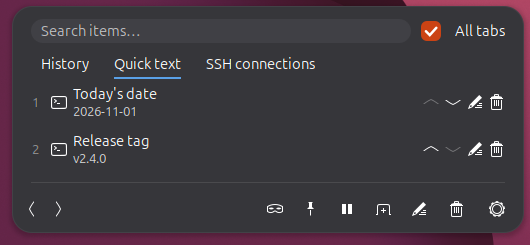
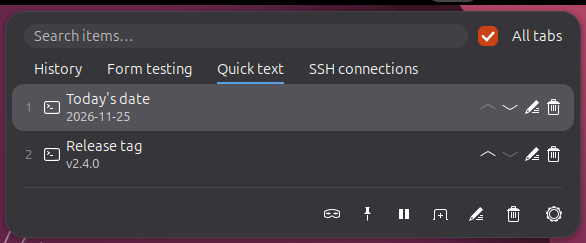
Simplify user README and refresh screenshots

diff --git a/README.md b/README.md
@@ -1,155 +1,101 @@
 # Paste Board for GNOME
 
 A plain-text clipboard and paste-set manager for GNOME Shell on Wayland.
-Organize reusable text in tabs, search across them, and fill forms with repeated
-pastes followed by Tab or Enter. Commands can supply text or entire tabs of
-paste candidates.
+Organize reusable text in tabs, search across them, and fill forms with
+repeated pastes. Commands can supply individual items or entire tabs.
 
-![Paste Board with its clipboard icon, paste-set tabs, reusable form fields, and a command output preview.](screenshot.png)
+![Paste Board with its top-bar icon, search field, and reusable form fields.](screenshot.png)
 
-## Install
+## Installation
 
-From the project directory, run:
+Supports GNOME Shell 50 on Wayland.
 
-```bash
-make install
-```
+Download or clone this repository and run `make install` from its directory.
+Requires GNU Make, gettext, GLib's `glib-compile-schemas`, and Python 3 for commands.
 
-Requires GNU Make, gettext (`msgfmt`), and GLib's `glib-compile-schemas`.
-Commands also require Python 3 at `/usr/bin/python3`.
+Keep the downloaded directory in place. Log out and back in, then enable
+**Paste Board for GNOME** in the Extensions app.
 
-Log out and back in, then enable **Paste Board for GNOME** in the Extensions app.
-Installation links this directory into your extensions folder, so keep it in
-place. After updating the source, run `make` and log out and back in.
+## Using Paste Board
 
-## Open, search, and paste
+Copy text as usual and open the panel from the top-bar icon.
 
-Copy text as usual, then open the panel from the top-bar icon. Panel-opening
-and number-paste shortcuts are off by default to avoid desktop shortcut conflicts.
-Enable them and choose your keys in preferences if desired.
+- **Up/Down**, then **Enter**, or click an item to paste.
+- **Left/Right** to switch tabs when outside the search field.
+- Type to search, or use **Ctrl+F** to toggle search focus.
+- **Esc** to close the panel.
 
-- **Up/Down**, then **Enter**, or a click: paste an item.
-- **Your chosen modifiers + 1–9**: paste a numbered candidate, when enabled.
-- **Left/Right** outside search: switch tabs.
-- Scroll to browse items; more rows load as you approach the bottom. Number shortcuts stay assigned to the first nine items in the list.
-- **Ctrl+F**: switch between search and the last selected candidate.
-  **/** outside search also focuses it.
-- **Esc** or **your chosen modifiers + 0**: close the panel. Unassigned keys
-  do not close it; they are left to the focused control or input method.
-  During IME composition, Esc is left to the input method.
+Search covers all tabs by default. Space-separated words must all match,
+in any order. Search results also support editing and deletion where applicable.
 
-Type letters or digits anywhere in the panel to start searching, including the
-first character. Dedicated input-mode keys (such as Henkan and Muhenkan) also
-focus search and are passed to the input method. Enabled number shortcuts still paste.
+Panel-opening and number-paste shortcuts are off by default. Enable and customize
+them in preferences.
+With number shortcuts enabled, your chosen modifiers + **1–9** paste the
+corresponding numbered items.
 
-Search covers **All tabs** by default; uncheck it to search only the current tab.
-Space-separated words use AND matching, in any order. Results are grouped by tab
-and numbered in display order. Results also offer add, edit, and delete actions
-where supported by their source tab. Generated candidates remain read-only.
-Clear the query to return to the ordinary list.
-
-The first item in unfiltered history is the current text clipboard. Enter or
-clicking an unpinned history item updates the clipboard and moves it to the top.
-Number shortcuts, pinned pastes, and pastes from sets preserve both.
-
-Click the **pin** button to keep the panel open for repeated pastes. Choose
-**nothing**, **Enter**, or **Tab** after each paste—for example, Tab to fill
+Click the **pin** icon to keep the panel open for repeated pastes. Choose
+whether to send **Enter** or **Tab** after each paste, for example to fill
 successive form fields.
 
-Preferences let you customize shortcuts, item limit, trimming, and copy feedback.
-**Application paste shortcuts** overrides the paste keys sent to a target app;
-match them to that app's settings. Turning off **Paste on Enter or click** makes
-those actions copy only; number shortcuts still paste.
+Selecting an unpinned history item with Enter or a click moves it to the top
+and updates the clipboard. Pinned pastes, number shortcuts, and pastes from
+sets preserve the history order and current clipboard.
 
-**Plain text only:** formatting, images, and other clipboard formats are not
-preserved by this extension's paste operations.
+Paste Board pastes plain text without formatting or images. Preferences let you
+customize application-specific paste shortcuts or make Enter and clicks copy only.
 
 ## Paste sets
 
-Create a set with the new-tab button at the bottom of the panel. Add history items
-with their add button or drag them onto a tab. Edit their names and content, or
-drag to reorder them. Right-click a tab to edit or delete it, or use the bottom
-toolbar's edit button. Deleting a set requires confirmation; History can only be
-renamed. The trash button empties the active history or manual set after
-confirmation, keeping the clipboard and tab. It is disabled for generated tabs.
-
-## Export and import
-
-Use **Export…** in preferences to save paste sets and settings as a JSON file.
-Clipboard history is excluded. **Import…** previews the tabs and adds them to
-existing sets; preferences and keyboard shortcuts can be applied separately.
-Restoring the saved item limit preserves existing items in the backup, even in
-sets that already exceed that limit. The restored limit applies to new items.
-Imported commands have automatic execution turned off. Review them before
-re-enabling previews, tab-opening execution, or search execution.
+Create a tab with the new-tab button. Add history items using the **+** button
+or drag them onto a tab. Edit their names and content, and drag to reorder them.
+Right-click a tab to rename or delete it. The trash button empties the current
+history or manual set after confirmation.
 
 ## Commands
 
-Use **Bash (one-liner)** for pipes and variable expansion, or **Direct execution**
-for a command and its arguments. Interactive aliases and functions are unavailable.
-**Run and preview** lets you try a command in its editor.
+Choose **Direct execution** for a command and its arguments, or **Bash (one-liner)**
+for pipes and variable expansion. Use **Run and preview** to try a command in its editor.
 
 ### Command items
 
-Edit a set item and select **Command** to paste its output—for example,
-`date '+%Y-%m-%d'`. It runs when selected, or reuses an available preview when
-**Preview output when opening this tab** is enabled. If no preview has been
-loaded—for example, when selecting an unvisited tab's item from search—the command
-runs at that point.
+Edit a paste-set item and select **Command** to paste its output, for example
+`date '+%Y-%m-%d'`. You can also enable output previews when opening its tab.
 
-![The Quick text tab shows today's date and a release tag as command output previews.](screenshots/command-items.png)
+![The Quick text tab shows the output of date and release-tag commands.](screenshots/command-items.png)
 
 ### Generated tabs
 
-Create a set, select **Generate from command**, and enter a command. Each non-empty
-output line becomes a read-only paste candidate. The first opening during a panel
-visit runs the command unless results are already available from search. Revisiting
-the tab reuses those results; selecting a candidate pastes without rerunning it.
-Use **Refresh** to regenerate the list, or stop a running generation. Turn off
-**Run command when opening this tab** to load it only on demand.
+Create a tab and select **Generate from command**. Each non-empty output line
+becomes a paste candidate. Use the refresh button to regenerate the list.
+Enable **Run command during cross-tab search** to include fresh results in
+all-tabs searches.
 
-Enable **Run command during cross-tab search** to load the tab when a non-empty
-all-tabs search begins. Further typing only filters the results; clear and
-re-enter the query to run it again. Otherwise, search uses results already loaded
-during the current panel visit. Generated results are not saved between visits.
-
-For example, create an **SSH connections** tab in **Bash (one-liner)** mode:
+For example, create an **SSH connections** tab in Bash mode:
 
 ```bash
 sed -nE 's/^[[:space:]]*[Hh][Oo][Ss][Tt][[:space:]]+/ssh /p' ~/.ssh/config
 ```
 
-This produces candidates such as `ssh staging`. Enable search execution to find
-connections without opening their tab first. Pasting does not execute the SSH
-command. Wildcards and multiple aliases on one line need adjustment; `Include`
-files are not read.
+The tab lists SSH host definitions as text to paste.
 
-![The SSH connections tab lists four generated paste candidates: ssh staging, ssh production, ssh docs, and ssh backup.](screenshots/generated-tab.png)
+![The SSH connections tab lists four generated SSH commands.](screenshots/generated-tab.png)
 
-### Execution and safety
+**Commands run with your permissions and can modify or delete files, access
+the network, and launch applications. Add only commands you understand and
+trust.** Use the pause icon to disable automatic execution. Interactive
+commands and password prompts are unsupported.
 
-The bottom toolbar's **pause** button stops automatic previews and generation
-until you turn it off. Explicit execution, including selecting a command item,
-still works while paused. Private mode blocks command execution.
+## Export and import
 
-**Commands run with your permissions and can modify or delete files, access the
-network, or launch applications—even without output. Add only commands you
-understand and trust. Stopping a command does not undo its actions.**
-
-The item limit in preferences applies to history and each paste set (default: 1000).
-Old history is discarded at the limit; manual sets refuse additions, and generated
-tabs report an error if output exceeds it. Lowering the limit keeps existing manual
-set items.
-
-Commands are limited to 3 seconds and 64 KiB of output. Interactive commands and password prompts are unsupported.
-Failed commands are not pasted.
+Export paste sets and settings as JSON from preferences. Clipboard history is
+excluded. Import adds sets to your existing ones and optionally restores
+preferences and shortcuts. Automatic execution is disabled for imported commands.
 
 ## Privacy
 
-Private mode pauses history collection. **Clear history on logout** clears history
-between login sessions while keeping paste sets. Recovery backups are retained;
-their location is shown in recovery notifications. Clearing history does not
-securely erase data from disk.
+Private mode pauses history collection and command execution. Preferences can
+clear history on logout while keeping paste sets. Recovery backups may remain;
+clearing history does not securely erase data from disk.
 
 ## Origins and license
 
